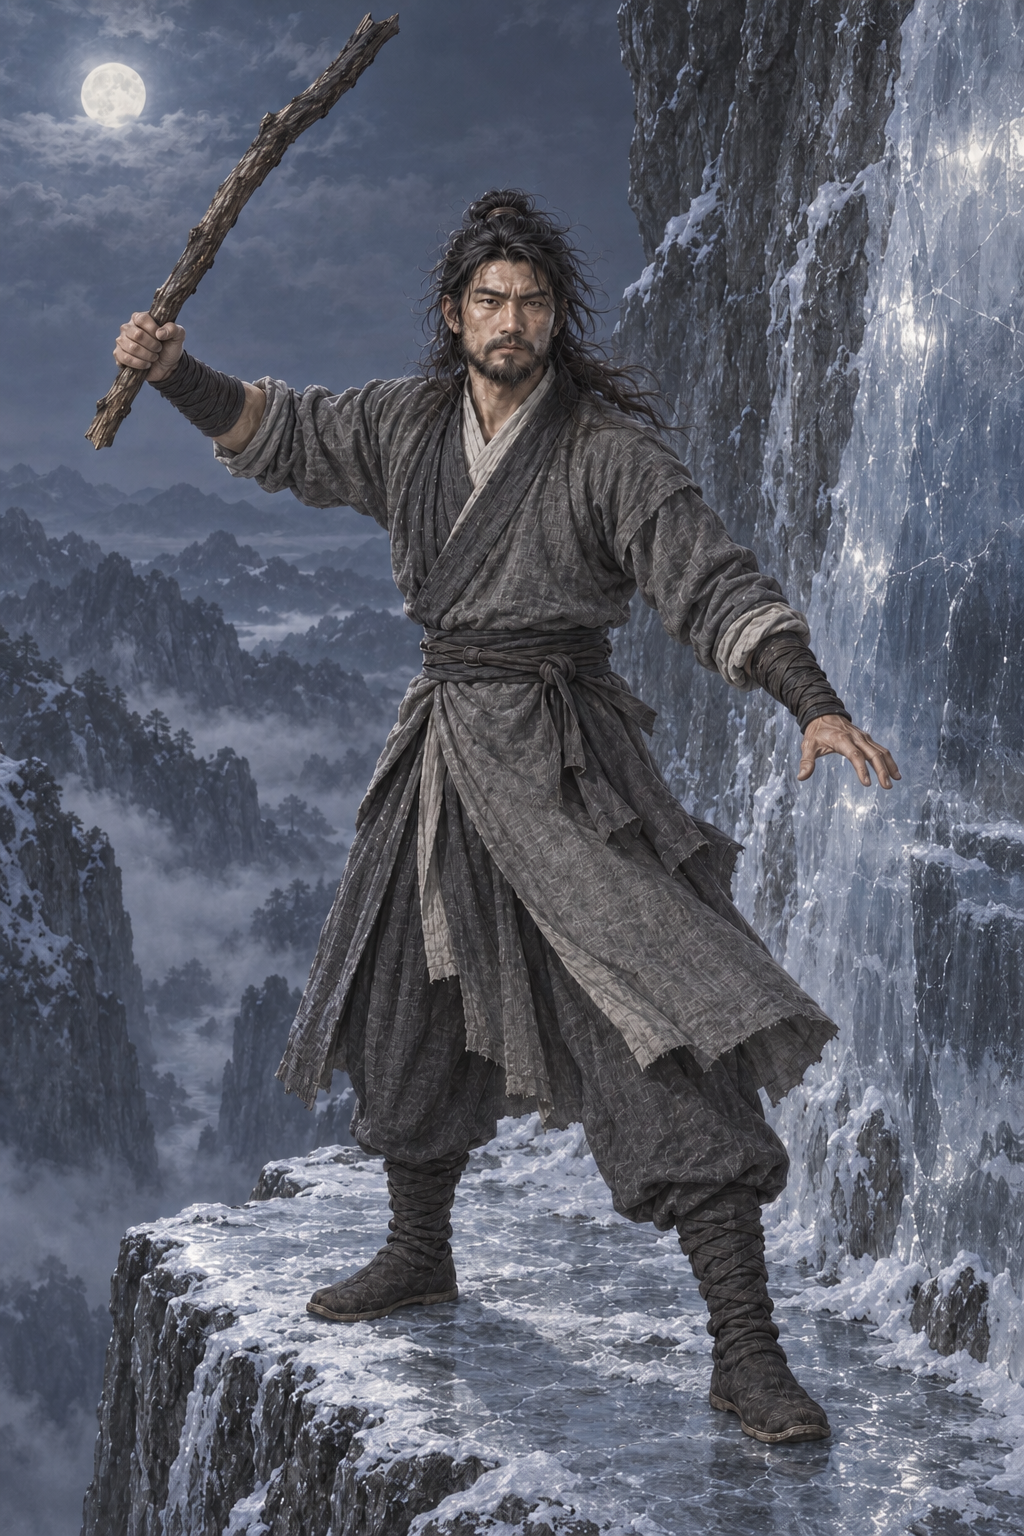
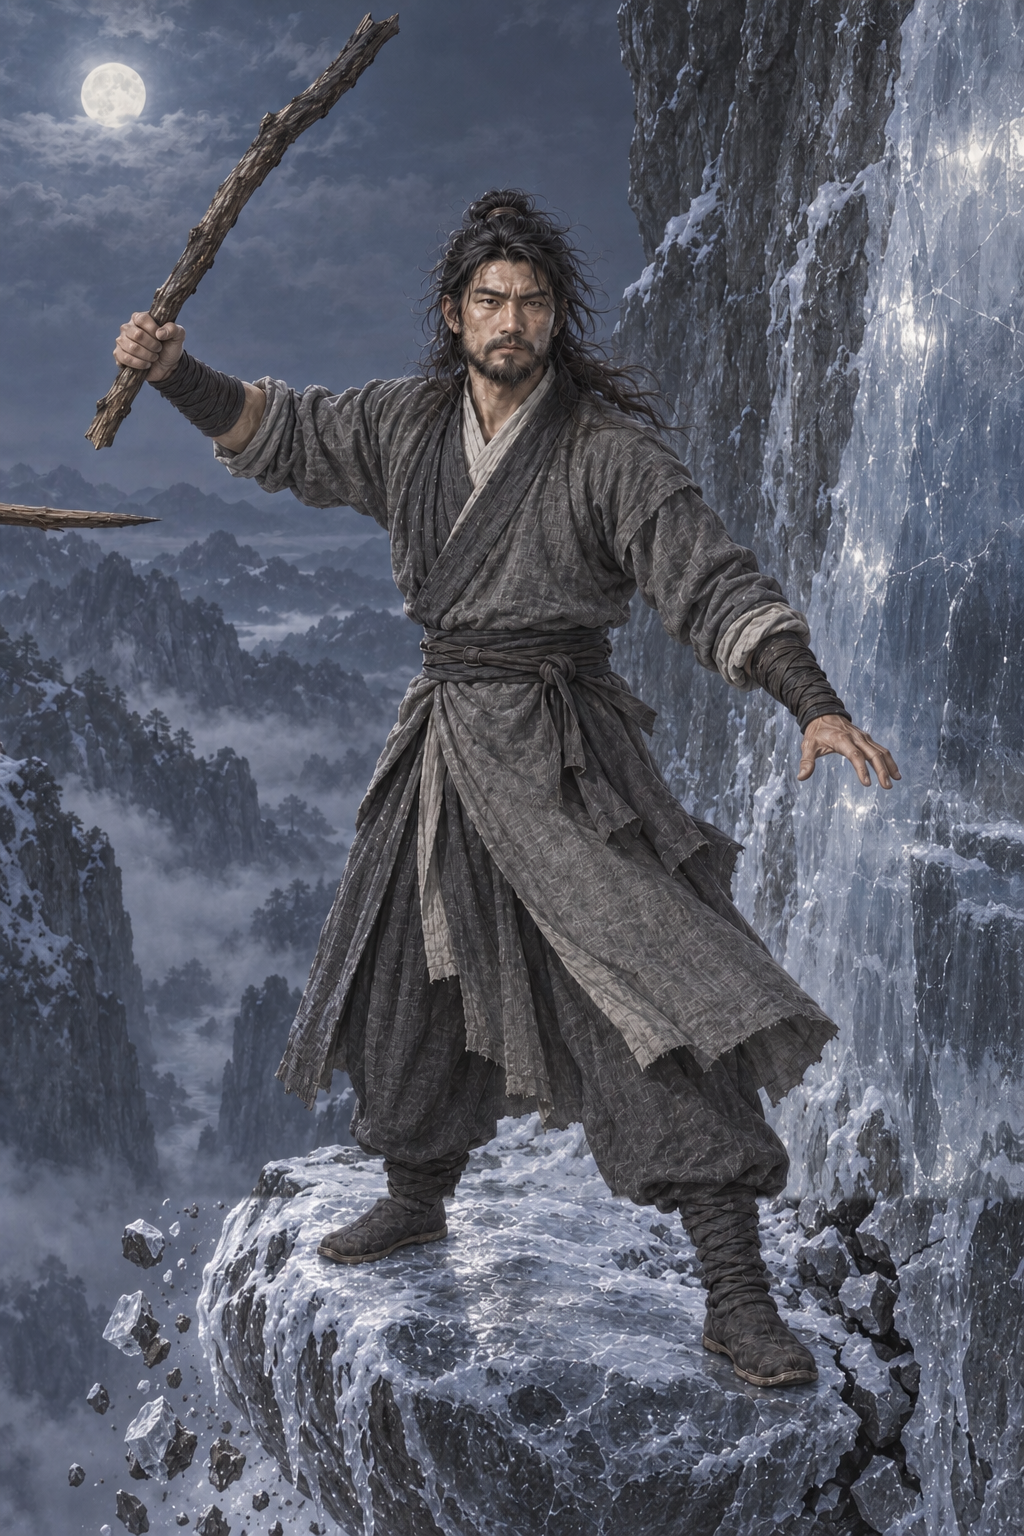
assets: AR-82 原著核对返修 胡斐
修正原著明确的服饰、器物或剧情状态；编辑范围外像素保持，保留既定面容；同步原著摘句及当前返修要求。

Executed-By: Codex gpt-6.1-sol（AR-82）

Changed region(s): [[0.0312, 0.7812, 1.0, 1.0], [0.0, 0.3125, 0.1562, 0.3438]]

diff --git a/assets/default/prompts/characters/ch14-xueshan/npc_hufei__scene_snow_cliff_suspended_blade.md b/assets/default/prompts/characters/ch14-xueshan/npc_hufei__scene_snow_cliff_suspended_blade.md
@@ -51,3 +51,15 @@ size: 1024x1536
 
 - 参考分工见实际提示词；配色、姿势、取景及成年化均为（原创扩展）。
 - 本轮结果已逐图目检并入库为 candidate；实际作业与参考哈希见 manifest。
+
+
+## 原著依据
+
+- AR-82 返修依据：《雪山飞狐》第十章：“沙石夹冰纷纷下堕，巨岩越晃越是厉害”；“胡斐举起树刀，一招就能将他劈下岩去”。；来源：https://github.com/OliverCWY/JY/blob/master/Markdown/%E4%B8%89%E8%81%94%E7%89%88/%E9%9B%AA%E5%B1%B1%E9%A3%9E%E7%8B%90/%E7%AC%AC10%E7%AB%A0.md；执行：终局取样落在摇动的突出巨岩上，岩下沙石与冰正在坠落、岩面圆滑；胡抬树刀欲劈又止，明确面对画外苗人凤的方向，或加入局部树剑交代互逼坠岩。不要改成金属刀，也不把前一段单足窄崖强加到最终巨岩阶段。
+
+
+## AR-82 当前返修约束
+
+只修正胡斐脚下与对敌方向：将原稳固宽平崖台改成突出崖外、根部裂开、摇晃欲坠的巨大圆滑冰岩，两脚仍踏同一块巨岩（保持原双脚位置，不改为单脚窄崖）；巨岩下方石块夹碎冰正在脱落坠入深渊，岩根有断裂缝，不能连成稳固平台。画面左边界加入极少量指向胡斐的木树剑尖/枯枝，交代画外苗人凤的对敌方向，不画另一个完整人。胡斐仍右手高举现有树枝作树刀欲劈又止，保持原头脸、双手、衣服、刀势、身体姿势和冷月冰壁，不换成金属刀。
+
+以本节及原著依据为当前要求，历史提示词与本节冲突时按本节执行；保留作者选定脸、原画质感与对应剧情阶段。
